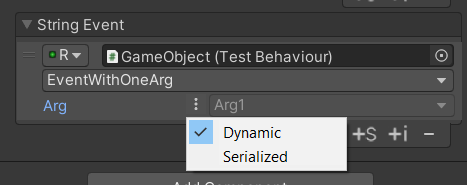
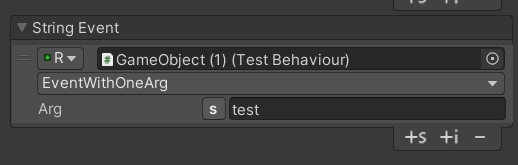
docs: Replaced screenshots to reflect the new UI

diff --git a/Editor/Drawers/PersistentArgumentDrawer.cs b/Editor/Drawers/PersistentArgumentDrawer.cs
@@ -22,7 +22,7 @@
         private bool _showChoiceButton = true;
         
         private GUIStyle _buttonStyle;
-        private GUIStyle ButtonStyle => _buttonStyle ?? (_buttonStyle = new GUIStyle(GUI.skin.button) { fontStyle = FontStyle.Bold });
+        private GUIStyle ButtonStyle => _buttonStyle ?? (_buttonStyle = new GUIStyle(GUI.skin.button) { fontStyle = FontStyle.Bold, alignment = TextAnchor.LowerCenter});
 
         private SerializedProperty ExposedProperty => _valueProperty;
 

diff --git a/README.md b/README.md
@@ -14,7 +14,7 @@ ExtEvents is a package that should replace UnityEvents in all your projects and 
 | Static methods             | :x: No                                                  | :white_check_mark: Yes                    | :white_check_mark: **Yes**                                   |
 | Non-void methods           | :x: No                                                  | :warning:Yes                              | :white_check_mark: **Yes (+ smart filtration system)**       |
 | Non-public methods         | :x: No                                                  | :warning:Yes                              | :white_check_mark: **Yes (+ flexible options to show/hide such methods)** |
-| Performance                | :white_check_mark: Fast                                 | :x: Very Slow                             | :white_check_mark: **Fast**                                  |
+| Performance                | :white_check_mark: Fast                                 | :x: Very Slow                             | :white_check_mark: **Very Fast**                             |
 | Method Dropdown            | :x: All methods in one GenericMenu list                 | :warning:GenericMenu with a few sub-menus | :white_check_mark: **Scrollable list with a search field and folders** |
 | Finding renamed types      | :x: No                                                  | :x: No                                    | :white_check_mark: **Yes**                                   |
 
@@ -124,7 +124,7 @@ public class TestBehaviour : Monobehaviour
 
 <img src="/.images/one-dynamic-arg.png" alt="one-dynamic-arg" style="zoom:80%;" />
 
-The argument is shown as dynamic now, so every time you pass a value to `_stringEvent`, it will be sent to `EventWithOneArg()`. Should you need it preset in editor, you can switch the argument to serialized:
+The argument is shown as dynamic now, so every time you pass a value to `_stringEvent`, it will be sent to `EventWithOneArg()`. Should you need it preset in editor, you can switch the argument to serialized by pressing on the **d** button:
 
 <img src="/.images/dynamic-serialized-dropdown.png" alt="dynamic-serialized-dropdown" style="zoom:80%;" />
 
